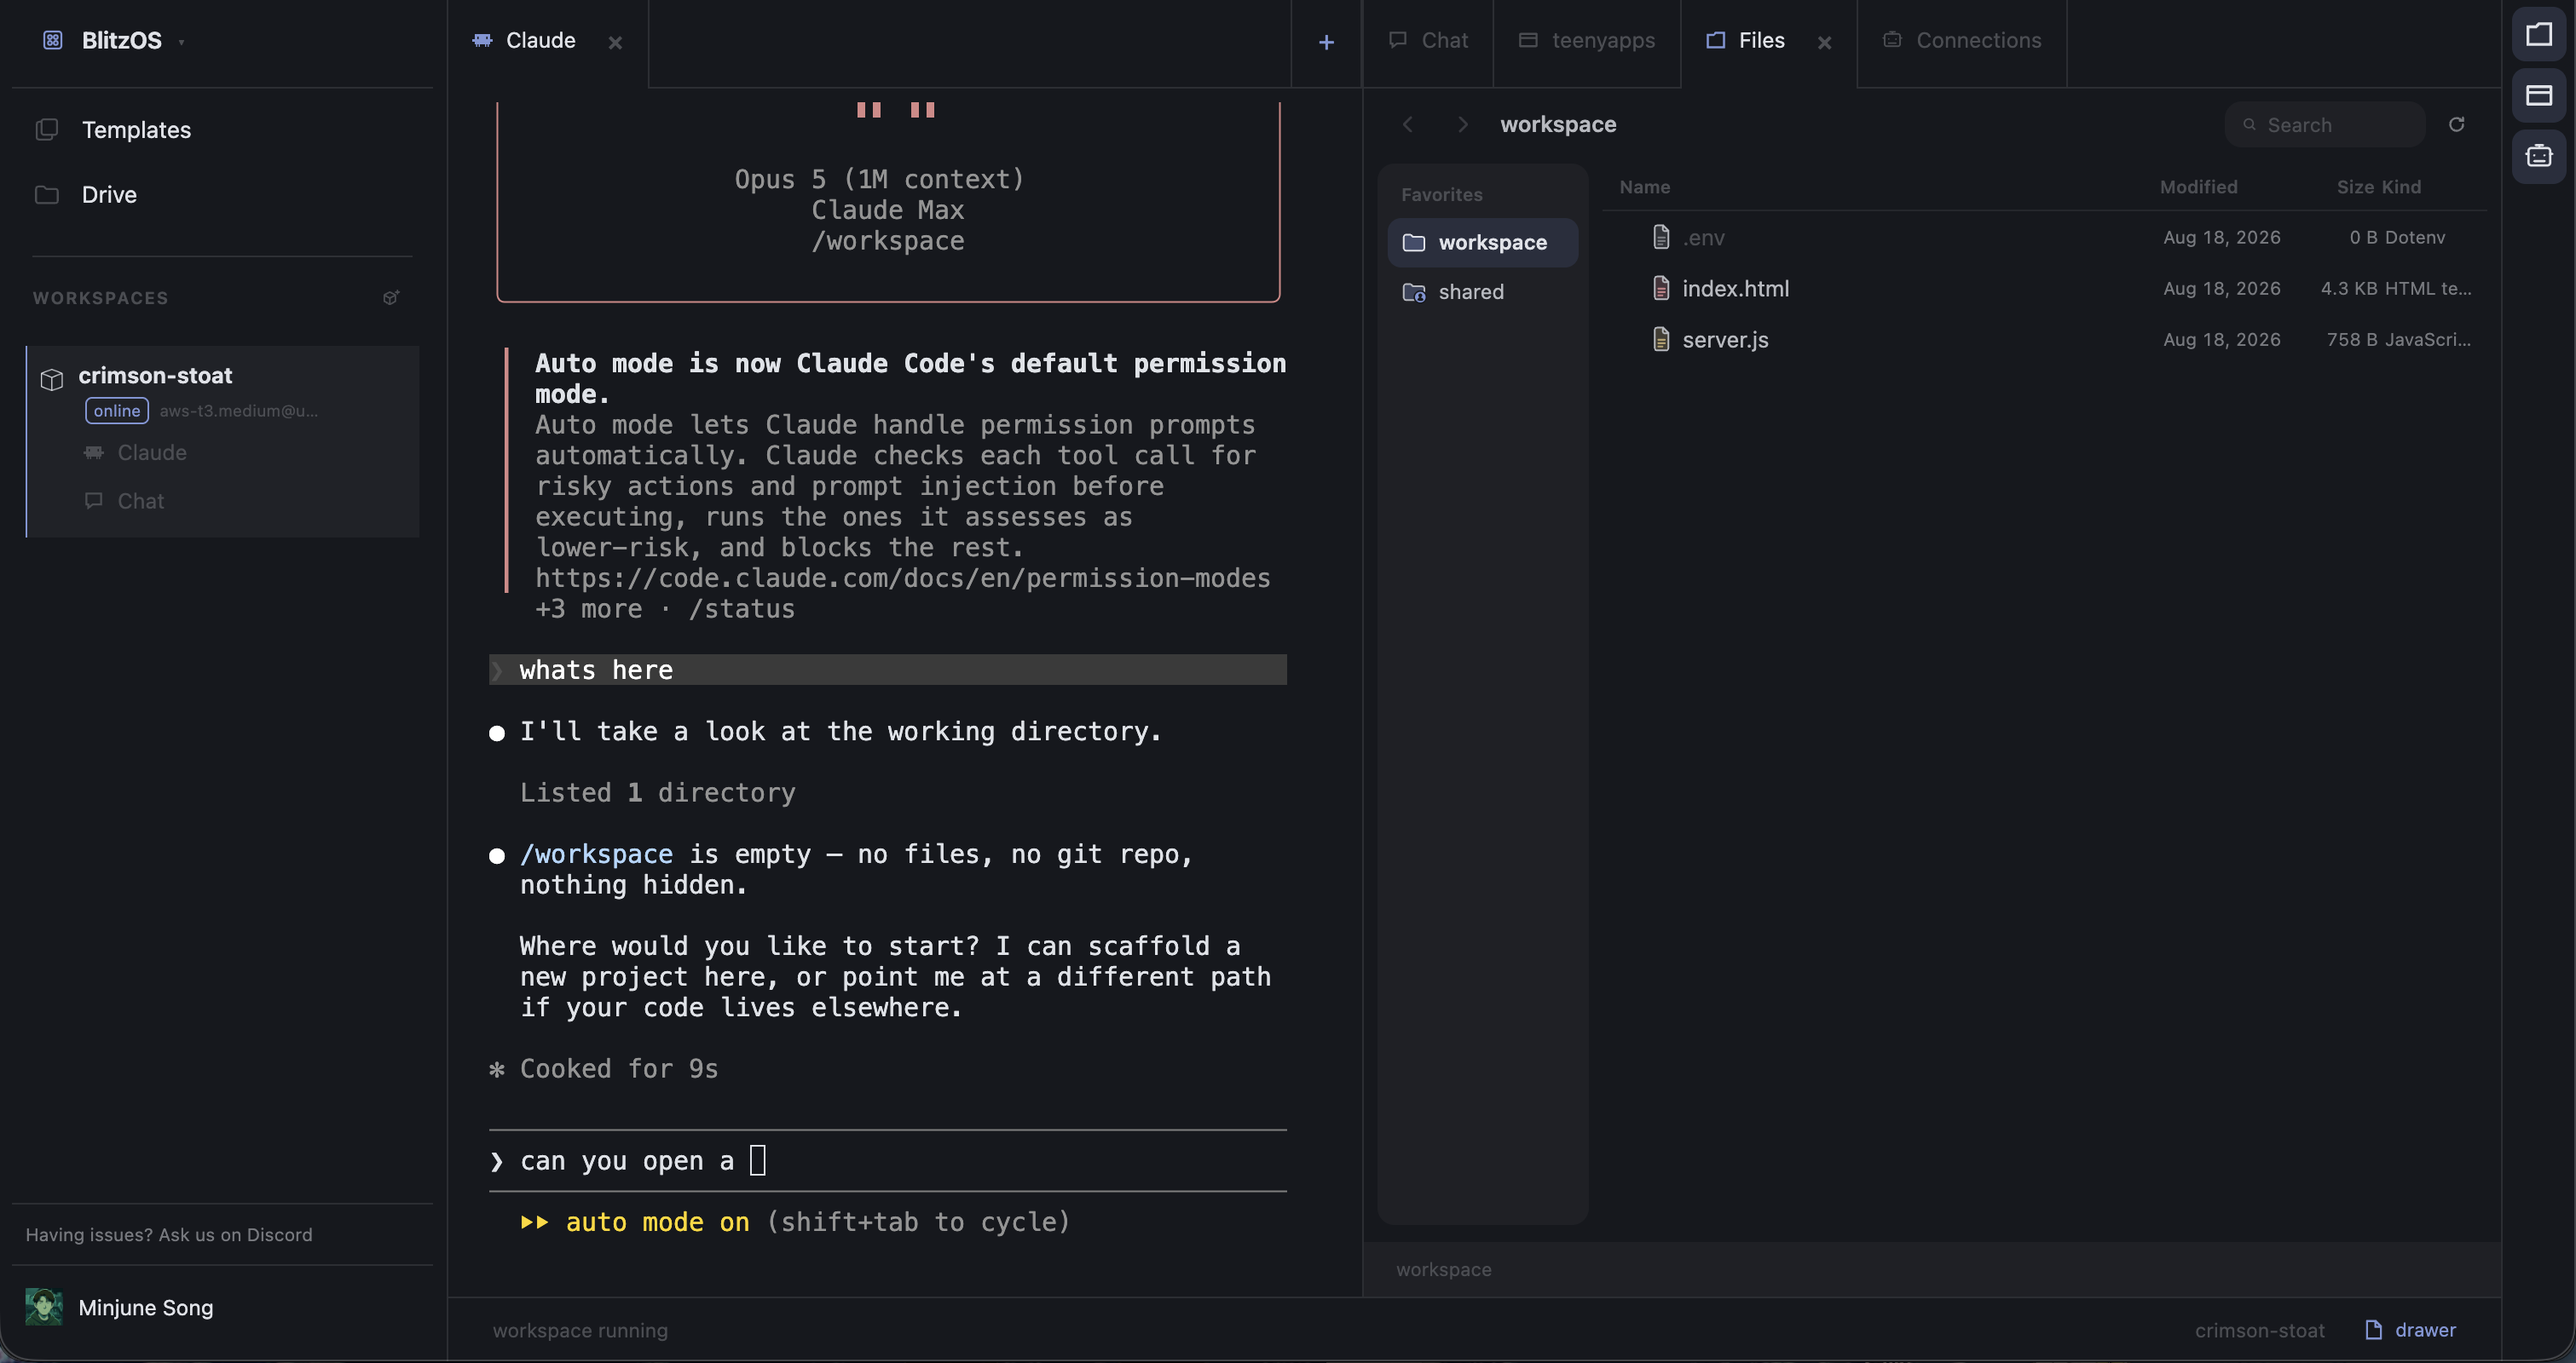
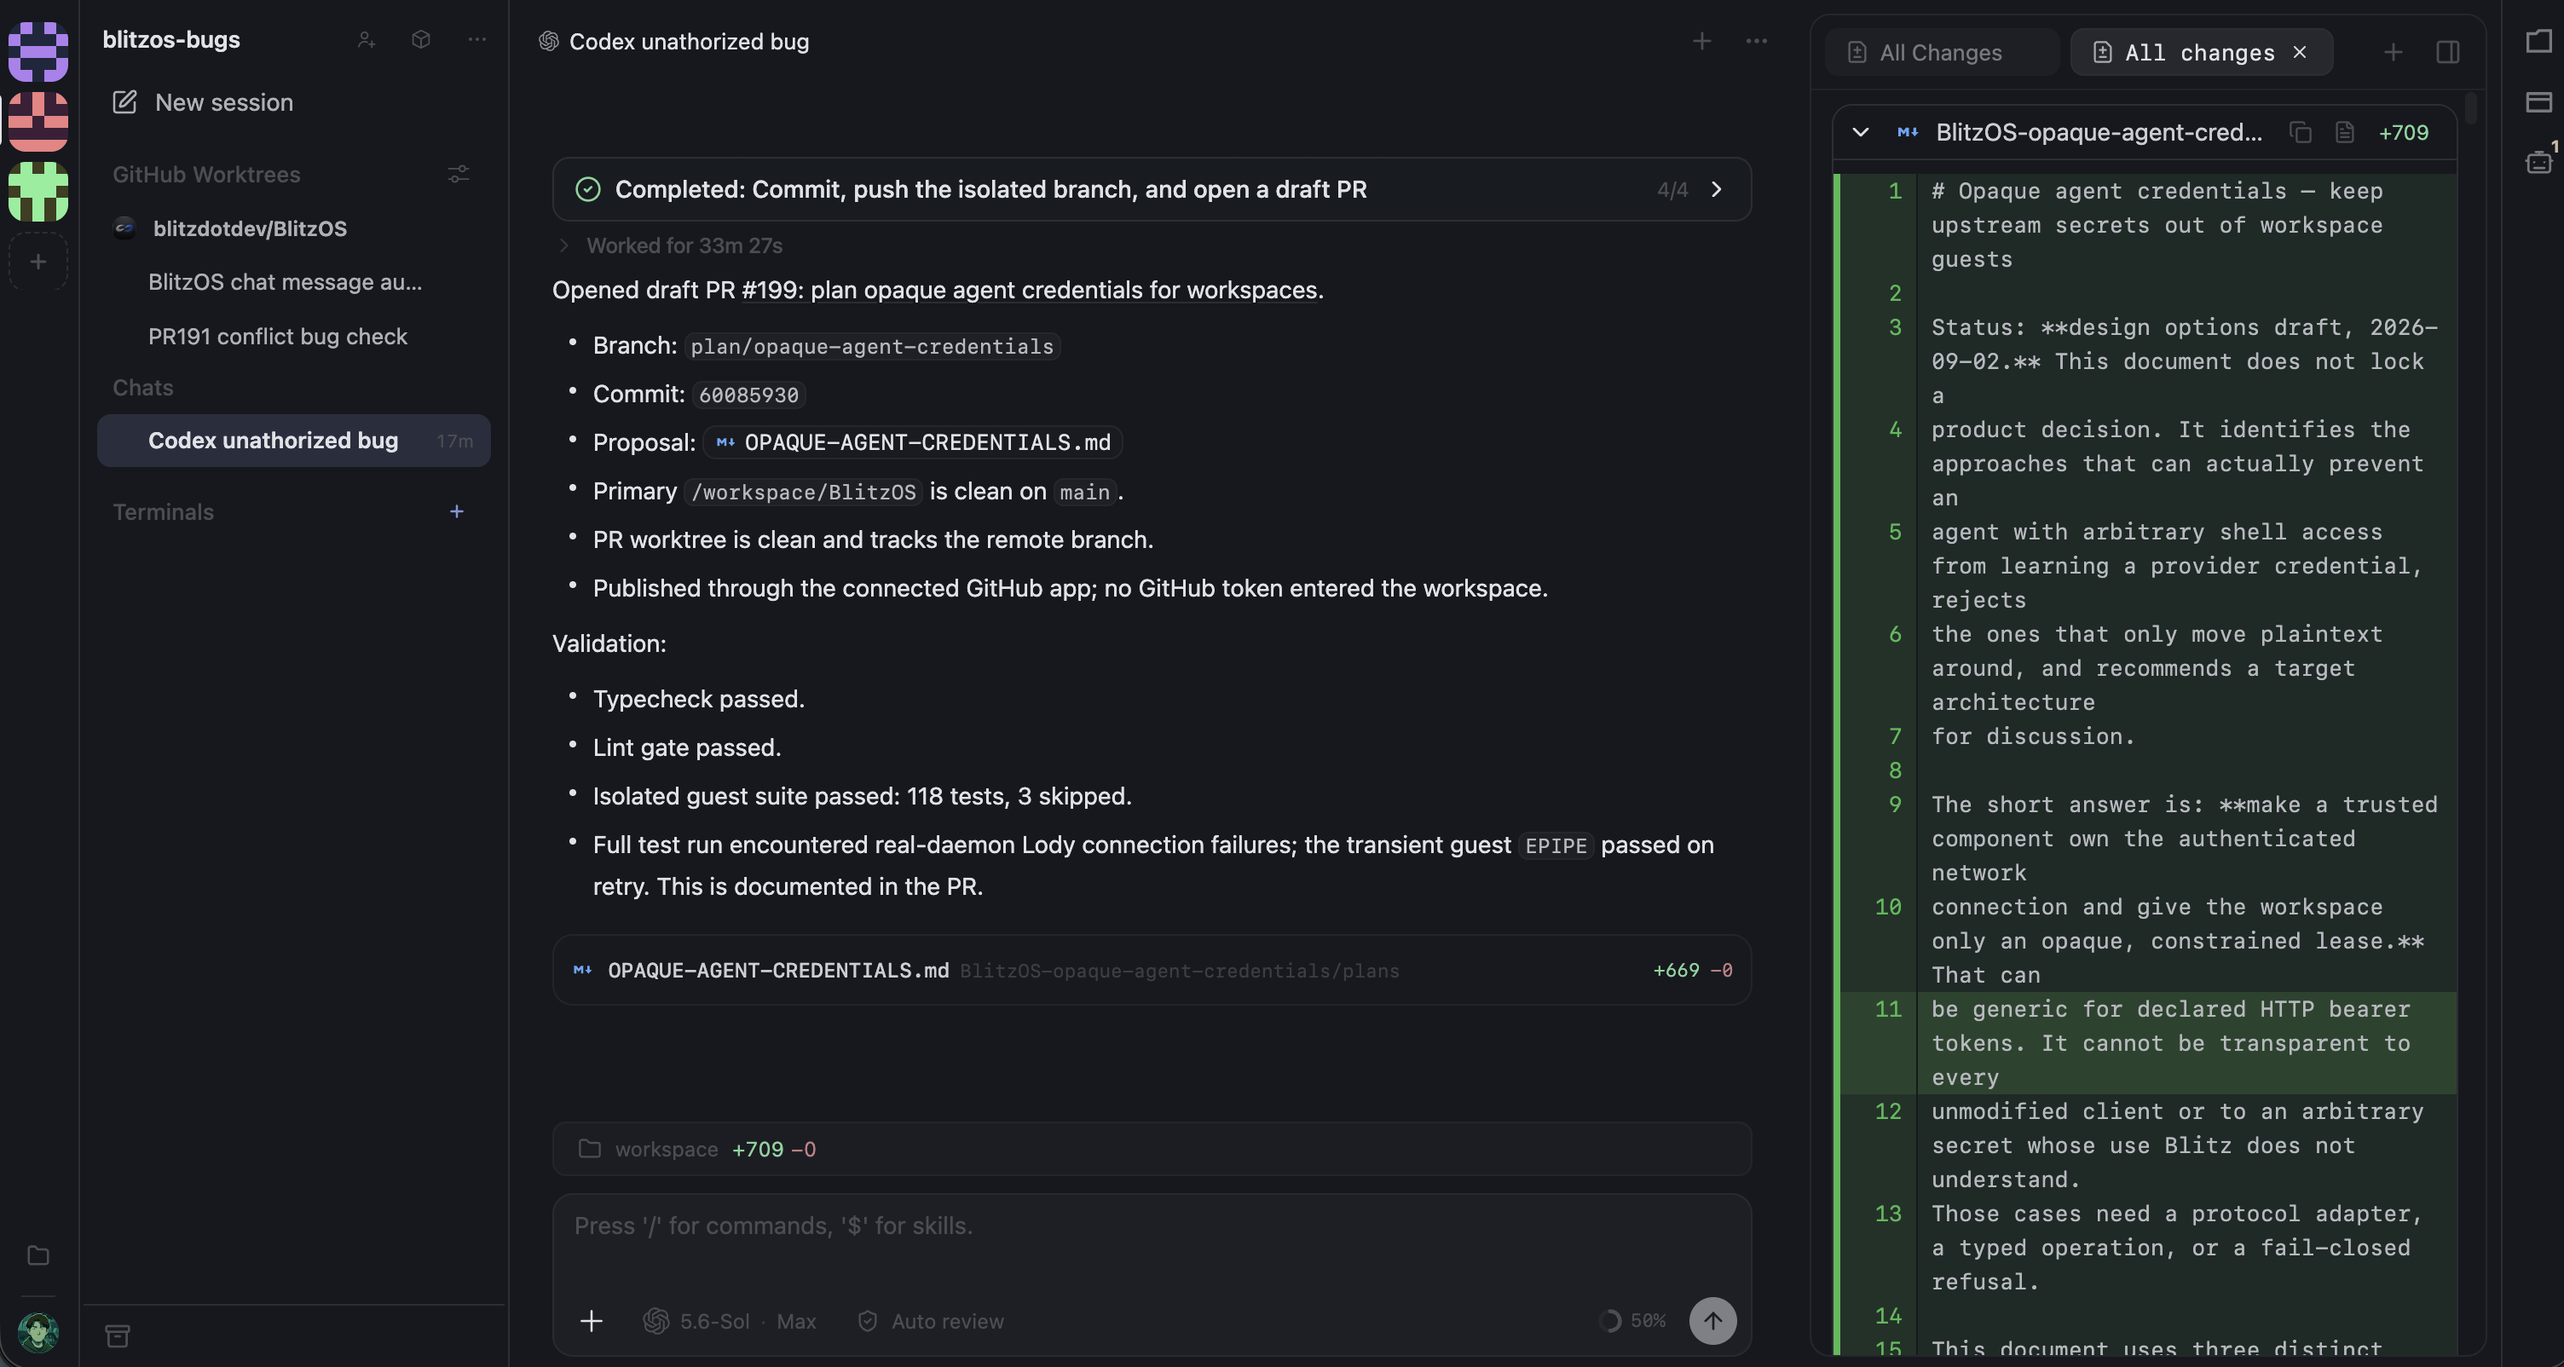
docs: refresh the README screenshot to the session surface
The old capture showed Templates in the sidebar and a Chat tab. Migration 0043
dropped the template tables, and the native-chat surface is deleted. The new
capture shows the session rail, an agent session, and its diff.

Update the alt text to match the new image.

Claude-Session: https://claude.ai/code/session_0118nuGDQqZKPkCzxGQuMhZ1

diff --git a/README.md b/README.md
@@ -9,7 +9,7 @@
 </p>
 
 <p align="center">
-  <img src="docs/images/workspace.png" alt="A BlitzOS workspace: agent terminal, files, and connections in the browser" width="100%">
+  <img src="docs/images/workspace.png" alt="A BlitzOS workspace: the session rail with worktrees and chats on the left, an agent session in the middle, and its diff on the right" width="100%">
 </p>
 
 ## What you can do with BlitzOS
